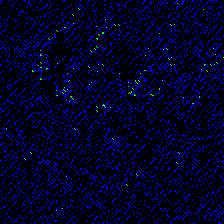
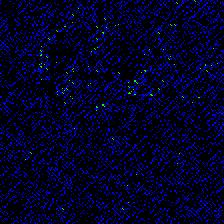
upload visualizations

diff --git a/visual/show_phojan.py b/visual/show_phojan.py
@@ -1,0 +1,36 @@
+import sys
+sys.path.append('../')
+from tools.dataset import get_dataset_class_and_scale, get_dataloader, get_de_normalization
+from tools.utils import manual_seed
+from tools.img import tensor2ndarray, ndarray2tensor
+from tools.inject_backdoor import patch_trigger
+
+import hydra
+from omegaconf import DictConfig, OmegaConf
+import os
+import PIL.Image
+import numpy as np
+
+# manual_seed(77)
+manual_seed(76)
+@hydra.main(version_base=None, config_path='/home/chengyiqiu/code/INBA/config', config_name='default')
+def show_phojan(config: DictConfig):
+    dl, _ = get_dataloader(config.dataset_name, 8, False, 4)
+    batch = None
+    for x, y in dl:
+        batch = x
+        break
+    print(batch[0].shape)
+    os.makedirs('./phojan_poisoned_images/', exist_ok=True)
+    de_norm = get_de_normalization(config.dataset_name)
+    for i in range(batch.shape[0]):
+        x = de_norm(batch[i]).squeeze()
+        x_p = patch_trigger(x, config)
+        x_p.clip_(0, 1)
+        PIL.Image.Image.save(PIL.Image.fromarray((tensor2ndarray(x)).astype(np.uint8)), f'./phojan_poisoned_images/benign_image_{i}.jpeg')
+        PIL.Image.Image.save(PIL.Image.fromarray((tensor2ndarray(x_p)).astype(np.uint8)), f'./phojan_poisoned_images/poisoned_image_{i}.jpeg')
+
+
+
+
+show_phojan()

diff --git a/visual/preprocessing.py b/visual/preprocessing.py
@@ -1,0 +1,2 @@
+import sys
+sys.path.append('../')
